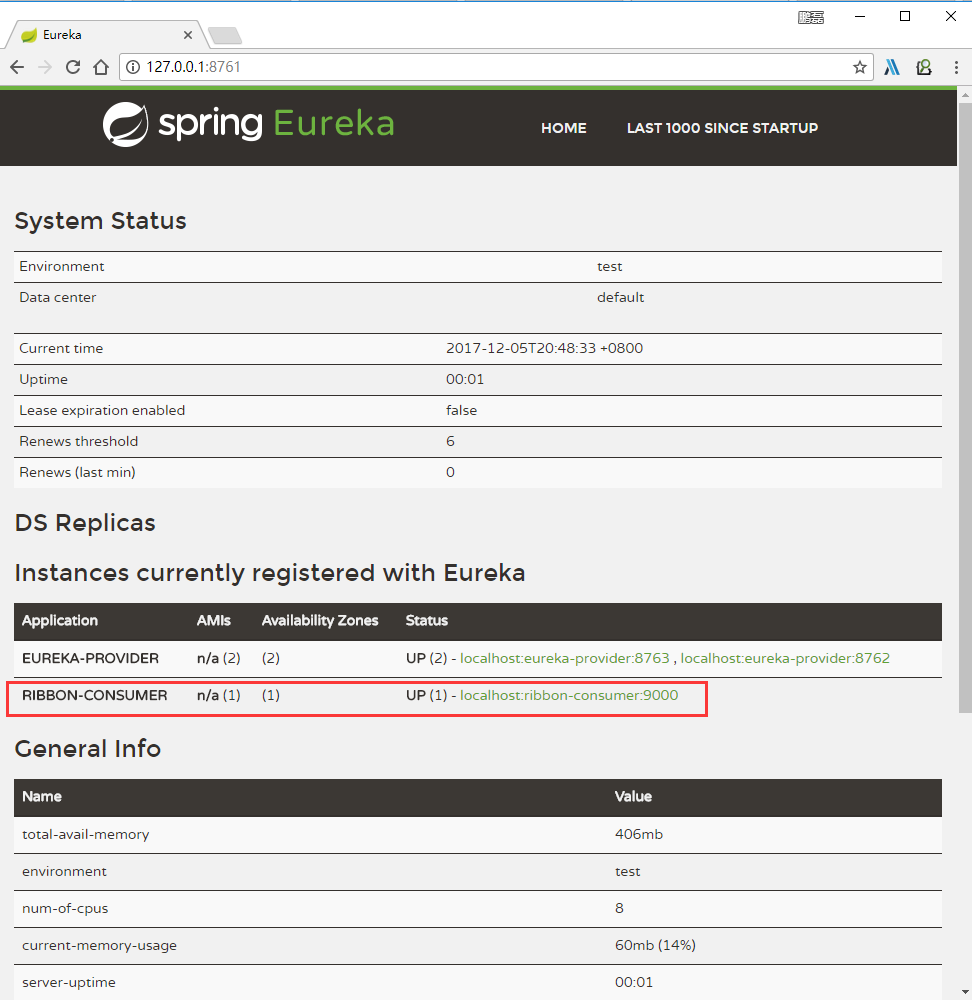
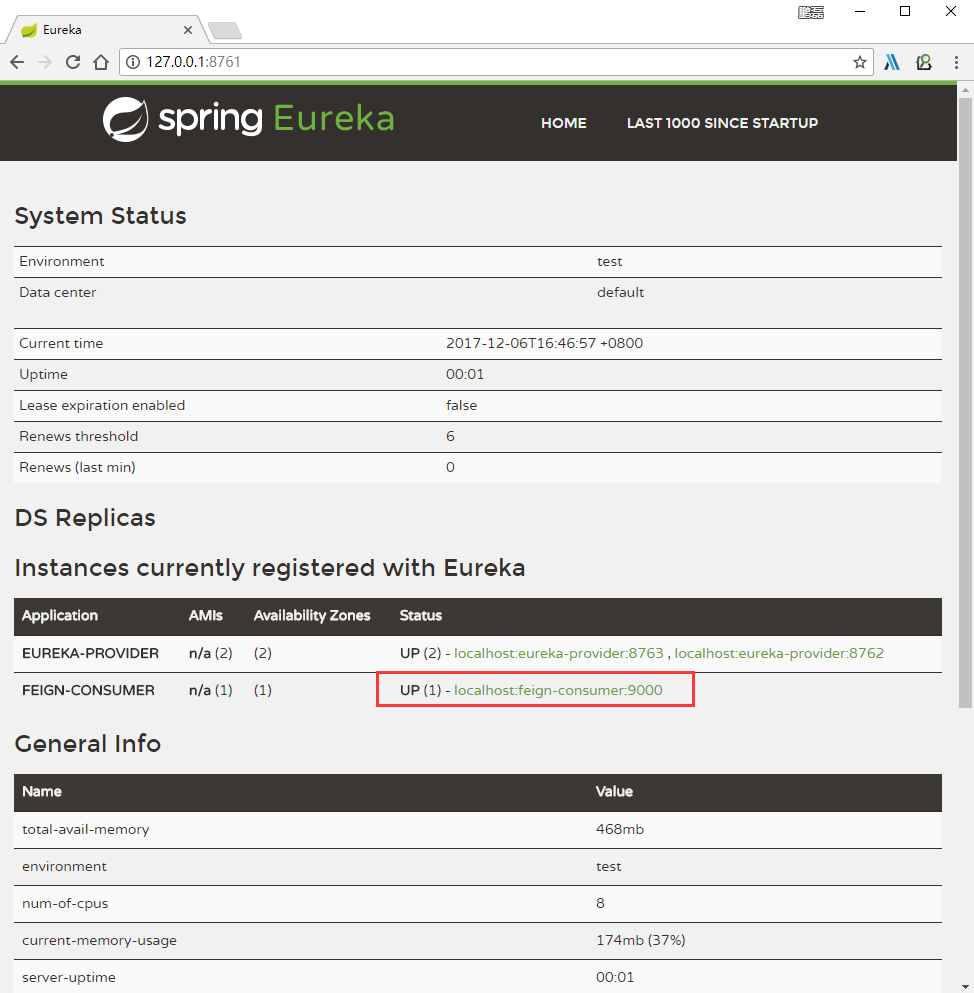
Spring Cloud（四） 服务提供者 Eureka + 服务消费者 Feign

diff --git a/_posts/SpringCloud/2017-12-06-spring-cloud-feign.md b/_posts/SpringCloud/2017-12-06-spring-cloud-feign.md
@@ -1,0 +1,385 @@
+---
+layout: post
+title:  Spring Cloud（四） 服务提供者 Eureka + 服务消费者 Feign
+categories: SpringCloud
+description: Spring Cloud（四） 服务提供者 Eureka + 服务消费者 Feign
+keywords: SpringCloud 
+---
+
+上一篇文章，讲述了如何通过RestTemplate+Ribbon去消费服务，这篇文章主要讲述如何通过Feign去消费服务。
+
+# 一、Feign简介
+
+Feign是一个声明式的伪Http客户端，它使得写Http客户端变得更简单。使用Feign，只需要创建一个接口并注解。它具有可插拔的注解特性，可使用Feign 注解和JAX-RS注解。Feign支持可插拔的编码器和解码器。Feign默认集成了Ribbon，并和Eureka结合，默认实现了负载均衡的效果。
+
+Feign 具有如下特性：
+
+ - 可插拔的注解支持，包括Feign注解和JAX-RS注解
+ - 支持可插拔的HTTP编码器和解码器
+ - 支持Hystrix和它的Fallback
+ - 支持Ribbon的负载均衡
+ - 支持HTTP请求和响应的压缩 Feign是一个声明式的Web Service客户端，它的目的就是让Web Service调用更加简单。它整合了Ribbon和Hystrix，从而不再需要显式地使用这两个组件。Feign还提供了HTTP请求的模板，通过编写简单的接口和注解，就可以定义好HTTP请求的参数、格式、地址等信息。接下来，Feign会完全代理HTTP的请求，我们只需要像调用方法一样调用它就可以完成服务请求。
+
+ 
+简而言之：Feign能干Ribbon和Hystrix的事情，但是要用Ribbon和Hystrix自带的注解必须要引入相应的jar包才可以。
+ 
+## Eureka Server
+
+**提供服务注册和发现服务**
+
+### 添加依赖
+
+在项目 `spring-cloud-eureka-service` `pom.xml`中引入需要的依赖内容：
+
+```xml
+<dependency>
+	<groupId>org.springframework.cloud</groupId>
+	<artifactId>spring-cloud-starter-eureka-server</artifactId>
+</dependency>
+```
+
+### 开启服务注册
+
+通过 `@EnableEurekaServer` 注解启动一个服务注册中心提供给其他应用进行对话,这个注解需要在springboot工程的启动application类上加
+
+```java
+package io.ymq.example.eureka;
+
+import org.springframework.boot.SpringApplication;
+import org.springframework.boot.autoconfigure.SpringBootApplication;
+import org.springframework.cloud.netflix.eureka.server.EnableEurekaServer;
+
+@SpringBootApplication
+@EnableEurekaServer
+public class EurekaApplication {
+
+	public static void main(String[] args) {
+		SpringApplication.run(EurekaApplication.class, args);
+	}
+}
+```
+
+### 配置 Eureka 服务
+
+在默认设置下，该服务注册中心也会将自己作为客户端来尝试注册它自己，所以我们需要禁用它的客户端注册行为，只需要在`application.yml`配置文件中增加如下信息：
+
+```sh
+registerWithEureka: false
+fetchRegistry: false
+```
+
+完整配置
+
+```sh
+server:
+  port: 8761
+
+eureka:
+  instance:
+    hostname: localhost
+  client:
+    registerWithEureka: false
+    fetchRegistry: false
+    serviceUrl:
+      defaultZone: http://${eureka.instance.hostname}:${server.port}/eureka/
+```
+
+### 启动服务注册中心
+
+
+启动工程后，访问：[http://localhost:8761/](http://localhost:8761/)
+
+可以看到下面的页面，其中还没有发现任何服务。
+
+![ System Status ][1]
+
+## Eureka Provider
+
+**服务提供者**
+
+- 将自身服务注册到 `Eureka Service`，从而使服务消费方能够找到
+
+
+### 添加依赖
+
+在项目 `spring-cloud-eureka-provider` `pom.xml`中引入需要的依赖内容：
+
+```xml
+<!-- spring boot eureka server -->
+<dependency>
+	<groupId>org.springframework.cloud</groupId>
+	<artifactId>spring-cloud-starter-eureka-server</artifactId>
+</dependency>
+```
+
+### 开启服务注册
+
+在应用主类中通过加上 @EnableEurekaClient，但只有Eureka可用，你也可以使用@EnableDiscoveryClient。需要配置才能找到Eureka服务器
+
+```java
+package io.ymq.example.eureka.provider;
+
+import org.springframework.beans.factory.annotation.Value;
+import org.springframework.boot.SpringApplication;
+import org.springframework.boot.autoconfigure.SpringBootApplication;
+import org.springframework.cloud.netflix.eureka.EnableEurekaClient;
+import org.springframework.web.bind.annotation.RequestMapping;
+import org.springframework.web.bind.annotation.RestController;
+
+@SpringBootApplication
+@EnableEurekaClient
+@RestController
+public class EurekaProviderApplication {
+
+    @Value("${server.port}")
+    String port;
+
+    @RequestMapping("/")
+    public String home() {
+        return "Hello world ,port:" + port;
+    }
+
+    public static void main(String[] args) {
+        SpringApplication.run(EurekaProviderApplication.class, args);
+    }
+}
+
+```
+
+### 配置 Eureka Server 服务
+
+需要配置才能找到Eureka服务器。例：
+
+完整配置 `application.yml`
+
+```sh
+eureka:
+  client:
+    serviceUrl:
+      defaultZone: http://localhost:8761/eureka/
+
+spring:
+  application:
+    name: eureka-provider
+
+server:
+  port: 8762
+```
+
+### 启动提供者
+
+启动该工程后，再次访问启动工程后：[http://localhost:8761/](http://localhost:8761/)
+
+可以如下图内容，我们定义的服务被成功注册了。
+
+![ eureka-provider][2]
+
+## 多个 Eureka Provider
+
+修改 `spring-cloud-eureka-provider` 配置文件`application.yml` 里的端口：`8762` 改成 `8763` maven 打包 后发布
+
+
+**maven 打包**
+
+```sh
+F:\spring-cloud-examples\spring-cloud-eureka-provider> mvn clean package
+
+....
+Results :
+
+Tests run: 1, Failures: 0, Errors: 0, Skipped: 0
+
+[INFO]
+[INFO] --- maven-jar-plugin:2.6:jar (default-jar) @ spring-cloud-eureka-provider ---
+[INFO] Building jar: F:\spring-cloud-examples\spring-cloud-eureka-provider\target\spring-cloud-eureka-provider-0.0.1-SNAPSHOT.jar
+[INFO]
+[INFO] --- spring-boot-maven-plugin:1.5.9.RELEASE:repackage (default) @ spring-cloud-eureka-provider ---
+[INFO] ------------------------------------------------------------------------
+[INFO] BUILD SUCCESS
+[INFO] ------------------------------------------------------------------------
+[INFO] Total time: 23.848 s
+[INFO] Finished at: 2017-12-05T20:26:25+08:00
+[INFO] Final Memory: 47M/421M
+[INFO] ------------------------------------------------------------------------
+F:\spring-cloud-examples\spring-cloud-eureka-provider>
+```
+
+
+**把 maven打好的包，放入不同的目录，本地发布**
+```sh
+java -jar spring-cloud-eureka-provider-0.0.1-SNAPSHOT.jar
+```
+
+![发布 eureka-provider 8762 端口][3]
+
+![发布 eureka-provider 8763 端口][4]
+
+### 查看提供者服务
+
+启动该工程后，再次访问启动工程后：[http://localhost:8761/](http://localhost:8761/)
+
+
+![查看提供者服务][5]
+
+## Feign Consumer
+
+**服务消费者**
+
+### 添加依赖
+
+在项目 `spring-cloud-feign-consumer` `pom.xml`中引入需要的依赖内容：
+
+```xml
+<dependency>
+	<groupId>org.springframework.cloud</groupId>
+	<artifactId>spring-cloud-starter-feign</artifactId>
+</dependency>
+```
+
+### 开启服务负载均衡
+
+在工程的启动类中,通过`@EnableFeignClients` 注解开启Feign的功能：
+
+```java
+package io.ymq.example.feign.consumer;
+
+import org.springframework.boot.SpringApplication;
+import org.springframework.boot.autoconfigure.SpringBootApplication;
+import org.springframework.cloud.client.discovery.EnableDiscoveryClient;
+import org.springframework.cloud.netflix.feign.EnableFeignClients;
+
+@EnableFeignClients
+@EnableDiscoveryClient
+@SpringBootApplication
+public class FeignConsumerApplication {
+
+	public static void main(String[] args) {
+		SpringApplication.run(FeignConsumerApplication.class, args);
+	}
+}
+
+```
+
+
+### 定义一个Feign接口
+
+通过`@FeignClient（“服务名”）`，来指定调用哪个服务。比如在代码中调用了`eureka-provider`服务的 `/` 接口，`/` 就是调用：服务提供者项目：`spring-cloud-eureka-provider`  `home()` 方法，代码如下：
+
+```java
+package io.ymq.example.feign.consumer;
+
+import org.springframework.cloud.netflix.feign.FeignClient;
+import org.springframework.web.bind.annotation.GetMapping;
+
+/**
+ * 描述: 指定这个接口所要调用的 提供者服务名称 "eureka-provider"
+ *
+ * @author yanpenglei
+ * @create 2017-12-06 15:13
+ **/
+@FeignClient("eureka-provider")
+public interface  HomeClient {
+
+    @GetMapping("/")
+    String consumer();
+}
+```
+
+### 消费提供者方法
+
+写一个 `controller`，调用提供者的 `home` 方法
+
+```
+package io.ymq.example.feign.consumer;
+
+import org.springframework.beans.factory.annotation.Autowired;
+import org.springframework.web.bind.annotation.GetMapping;
+import org.springframework.web.bind.annotation.RestController;
+
+/**
+ * 描述:调用提供者的 `home` 方法
+ *
+ * @author yanpenglei
+ * @create 2017-12-06 15:26
+ **/
+@RestController
+public class ConsumerController {
+
+    @Autowired
+    private HomeClient homeClient;
+
+    @GetMapping(value = "/hello")
+    public String hello() {
+        return  homeClient.consumer();
+    }
+}
+
+```
+
+### 配置 Feign 服务
+
+完整配置 `application.yml`
+
+```sh
+eureka:
+  client:
+    serviceUrl:
+      defaultZone: http://localhost:8761/eureka/
+
+spring:
+  application:
+    name: feign-consumer
+
+server:
+  port: 9000
+```
+
+### 启动消费者
+
+启动该工程后，再次访问：[http://localhost:8761/](http://localhost:8761/) 
+
+
+![查看 Ribbon 注册状态][6]
+
+### 负载均衡响应
+
+
+**浏览器 F5 刷新，发现已经实现负载均衡**
+
+![测试提供者，负载均衡响应][7]
+
+![测试提供者，负载均衡响应][8]
+
+[1]: http://www.ymq.io/images/2017/SpringCloud/feign/1.png
+[2]: http://www.ymq.io/images/2017/SpringCloud/feign/2.png
+[3]: http://www.ymq.io/images/2017/SpringCloud/feign/3.png
+[4]: http://www.ymq.io/images/2017/SpringCloud/feign/4.png
+[5]: http://www.ymq.io/images/2017/SpringCloud/feign/5.png
+[6]: http://www.ymq.io/images/2017/SpringCloud/feign/6.png
+[7]: http://www.ymq.io/images/2017/SpringCloud/feign/7.png
+[8]: http://www.ymq.io/images/2017/SpringCloud/feign/8.png
+
+
+**注意：spring-cloud-eureka-provider** 项目，改成不同端口发布两次
+
+## 源码下载
+
+- [https://github.com/souyunku/spring-cloud-examples/tree/master/spring-cloud-eureka-service](https://github.com/souyunku/spring-cloud-examples/tree/master/spring-cloud-eureka-service)
+- [https://github.com/souyunku/spring-cloud-examples/tree/master/spring-cloud-eureka-provider](https://github.com/souyunku/spring-cloud-examples/tree/master/spring-cloud-eureka-provider)
+- [https://github.com/souyunku/spring-cloud-examples/tree/master/spring-cloud-ribbon-consumer](https://github.com/souyunku/spring-cloud-examples/tree/master/spring-cloud-ribbon-consumer)
+
+
+
+# Contact
+
+ - 作者：鹏磊  
+ - 出处：[http://www.ymq.io](http://www.ymq.io)  
+ - Email：[admin@souyunku.com](admin@souyunku.com)  
+ - GitHub：[https://github.com/souyunku](https://github.com/souyunku)  
+ - Segment Fault：[http://sf.gg/blog/souyunku](http://sf.gg/blog/souyunku)  
+ - 版权归作者所有，转载请注明出处
+ - Wechat：关注公众号，搜云库，分享技术，分享生活
+ 
+![关注公众号-搜云库](http://www.ymq.io/images/souyunku.png "搜云库")
+
+ 
